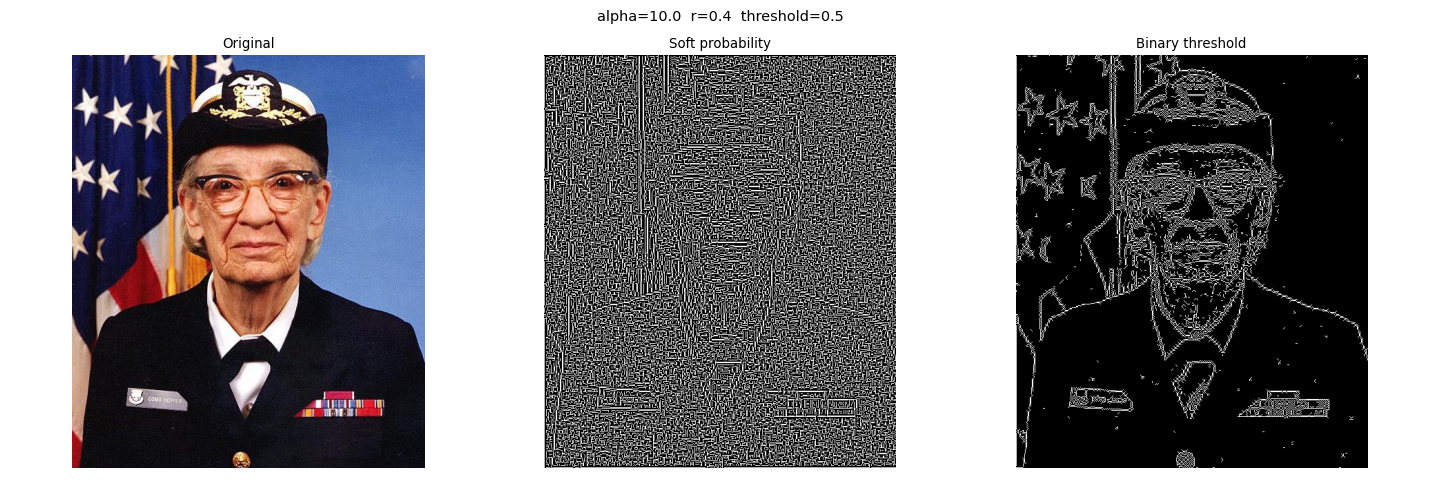
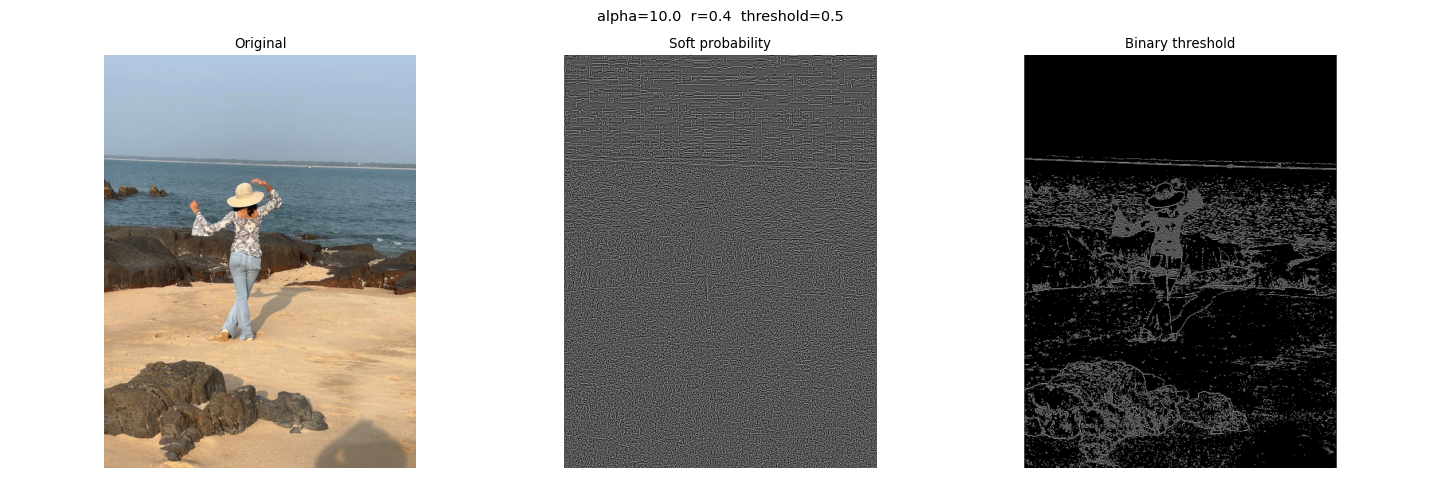
grid search outcomes, updated readme

diff --git a/README.md b/README.md
@@ -1,29 +1,98 @@
-# Edge and angle detection 
-A PyTorch based computer vision project for detecting edges and calculating their respective angles. Also has a provision for visualizing the results in HSV color space, allowing users to see the edges, the angles, and the image plotted together. Uses basic methods like sobel followed by arctan to do the same.
+# Vision: Biologically Motivated Discrete Edge Representation
 
-## Folder structure
-- `src/` : Core functions for batch processing, edge detection, and angle detection  
-- `frontend/` : Scripts to visualize results; running the main file generates plots of edges, angles, and the original image in HSV  
-- `datasets/` : Sample images for testing (small size recommended)  
-- `checkpoints/` : Optional saved model checkpoints  
-- `experiments/` : Experiment scripts and logs  
-- `setup.py` : Package installation script
+A PyTorch implementation of a biologically motivated, training-free visual 
+preprocessing pipeline inspired by the early visual pathway i.e
+retinal ganglion cells and V1 simple cells. The pipeline maps raw images to 
+a 27x compressed discrete edge representation while preserving perceptually 
+relevant structure.
+
+The core finding: with just 9 discrete edge symbols, images can be 
+reconstructed such that subjects remain easily recognisable by a human 
+observer, suggesting the representation preserves the perceptually 
+discriminative structure of the original image.
+
+## Pipeline
+```
+Raw image → Luminance weighting → Sobel edge gradients → 
+Sigmoid edge probability estimation → Binarisation → 
+9-template discrete edge map
+```
+
+Each 3×3 patch is assigned one of 9 discrete edge types:
+diagonal (↘ ↙), horizontal (top, middle, bottom), 
+vertical (left, centre, right), or no edge.
+This produces a representation 27x smaller than the original.
+
+## Motivation
+
+Current vision models learn edge and orientation structure from scratch 
+via gradient descent, requiring large amounts of training data to rediscover 
+what neuroscience already tells us the brain does, edge labelling. This pipeline hardcodes that knowledge explicitly, 
+leaving the downstream model free to learn higher-level structure.
+
+## Folder Structure
+- `assets/` — demo images
+- `src/data.py` — Core `Preprocessor` class: luminance, Sobel gradients, 
+   edge probability, binarisation, template matching
+- `frontends/frontend_1.py` — Visualise edge probabilities and angles 
+   on an input image using HSV colour encoding
+- `frontends/frontend_2.py` — Visualise discrete edge map reconstruction 
+   alongside original image
+- `experiments/experiment_1.py` — Early pipeline exploration on CIFAR-10
+- `experiments/experiment_2.py` — Grid search over sigmoid and threshold 
+   parameters, evaluated by perceptual reconstruction quality
+- `datasets/` — Sample images for testing
+- `checkpoints/` — Saved model checkpoints (future use)
 
 ## Installation
 
 1. Clone the repo:
 ```bash
-git clone https://github.com/anaaya2302/vision_project.git
-cd vision_project
+git clone https://github.com/anaaya2302/Vision.git
+cd Vision
 ```
 
-2. Create and activate a virtual environment
-I use miniconda because it works smoothly with cuda and torch, but venv works too.
+2. Create and activate a virtual environment (miniconda recommended for 
+   CUDA compatibility):
+```bash
+conda create -n vision python=3.10
+conda activate vision
+```
 
-3. Install dependencies
+3. Install dependencies:
+```bash
 pip install -r requirements.txt
+```
 
 ## Usage
-To plot an image alongside edges and angles, run frontend_1.py [expects one jpg image path as command line argument].
 
-To use underling functions for edge detection, angle detection, luminance grading, thresholding etc, access data.py
+Visualise edge detection on an image:
+```bash
+python frontends/frontend_1.py path/to/image.jpg
+```
+
+Visualise discrete edge map reconstruction:
+```bash
+python frontends/frontend_2.py path/to/image.jpg
+```
+
+Run parameter grid search:
+```bash
+python experiments/experiment_2.py path/to/image.jpg
+```
+Results saved to `grid_search/` with filenames encoding parameter values.
+
+## Results
+
+With parameters `r=0.4, threshold=0.5`, the discrete edge map preserves 
+sufficient structure for human recognition from reconstruction alone.
+
+![Results](assets/a5.0_r0.4_t0.5.png)
+
+## Future Work
+
+- Gestalt-motivated edge continuity detection via vectorised compatibility 
+  matching
+- Use discrete edge tokens as input to a Vision Transformer for 
+  classification
+- Evaluate sample efficiency vs raw pixel baseline on ImageNet
